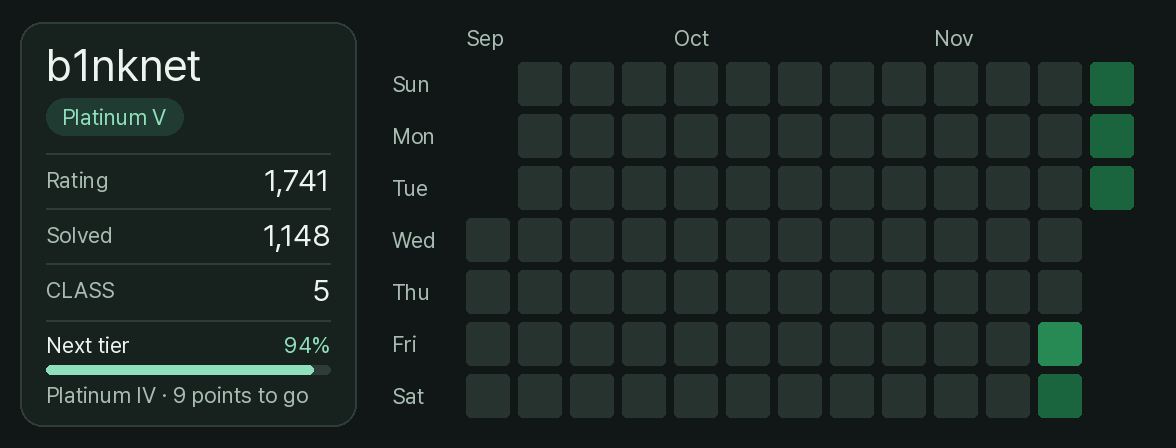
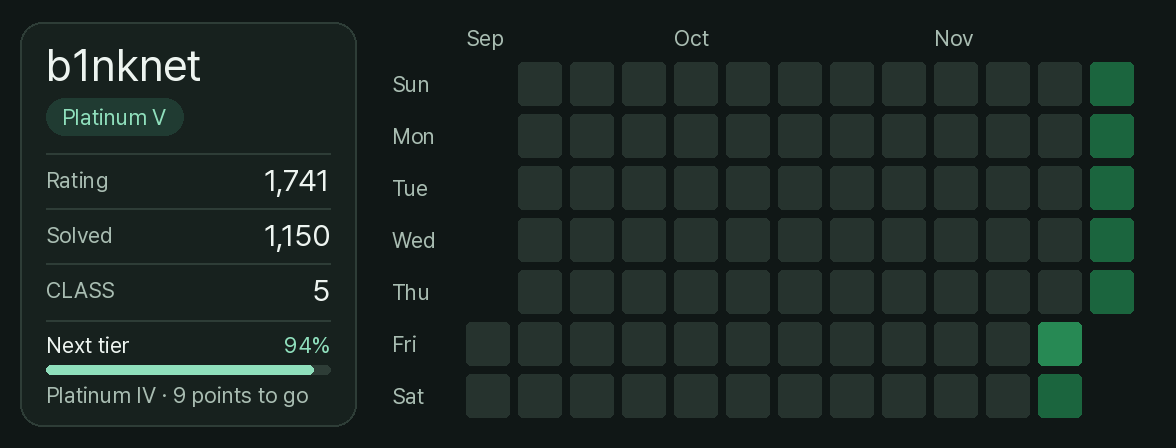
add 3059 and fix scripts

Changed region(s): [[0.9184, 0.4688, 0.9796, 0.7188], [0.398, 0.4688, 0.4592, 0.7188], [0.2143, 0.5, 0.2755, 0.5625]]

diff --git a/problems/03xxx/3059.py b/problems/03xxx/3059.py
@@ -1,0 +1,2 @@
+for _ in range(int(input())):
+    print(2015 - sum(map(ord, set(input()))))

diff --git a/README.md b/README.md
@@ -15,11 +15,11 @@
 
 <!-- solvedac:stats:start -->
 
-rate: **1741** | solved: **1149** | class: **5**
+rate: **1741** | solved: **1150** | class: **5**
 
-저장된 문제 수: **7**
+저장된 문제 수: **8**
 
-업데이트: 26.11.25. 14:54:26 (KST)
+업데이트: 26.11.26. 12:14:21 (KST)
 
 <!-- solvedac:stats:end -->
 
@@ -32,6 +32,7 @@ rate: **1741** | solved: **1149** | class: **5**
 |:---:|:---:|:---:|:---:|
 | [2875](https://solved.ac/p/2875) | 대회 or 인턴 | <img src="src/tiers/p03.svg" alt="Bronze III" title="Bronze III" height="20"> | [<img src="src/languages/python-original.svg" alt="Python (2875.py)" title="Python (2875.py)" width="20" height="20">](problems/02xxx/2875.py) |
 | [2953](https://solved.ac/p/2953) | 나는 요리사다 | <img src="src/tiers/p03.svg" alt="Bronze III" title="Bronze III" height="20"> | [<img src="src/languages/python-original.svg" alt="Python (2953.py)" title="Python (2953.py)" width="20" height="20">](problems/02xxx/2953.py) |
+| [3059](https://solved.ac/p/3059) | 등장하지 않는 문자의 합 | <img src="src/tiers/p03.svg" alt="Bronze III" title="Bronze III" height="20"> | [<img src="src/languages/python-original.svg" alt="Python (3059.py)" title="Python (3059.py)" width="20" height="20">](problems/03xxx/3059.py) |
 | [10102](https://solved.ac/p/10102) | 개표 | <img src="src/tiers/p03.svg" alt="Bronze III" title="Bronze III" height="20"> | [<img src="src/languages/python-original.svg" alt="Python (10102.py)" title="Python (10102.py)" width="20" height="20">](problems/10xxx/10102.py) |
 | [10103](https://solved.ac/p/10103) | 주사위 게임 | <img src="src/tiers/p03.svg" alt="Bronze III" title="Bronze III" height="20"> | [<img src="src/languages/python-original.svg" alt="Python (10103.py)" title="Python (10103.py)" width="20" height="20">](problems/10xxx/10103.py) |
 | [10991](https://solved.ac/p/10991) | 별 찍기 - 16 | <img src="src/tiers/p03.svg" alt="Bronze III" title="Bronze III" height="20"> | [<img src="src/languages/python-original.svg" alt="Python (10991.py)" title="Python (10991.py)" width="20" height="20">](problems/10xxx/10991.py) |
